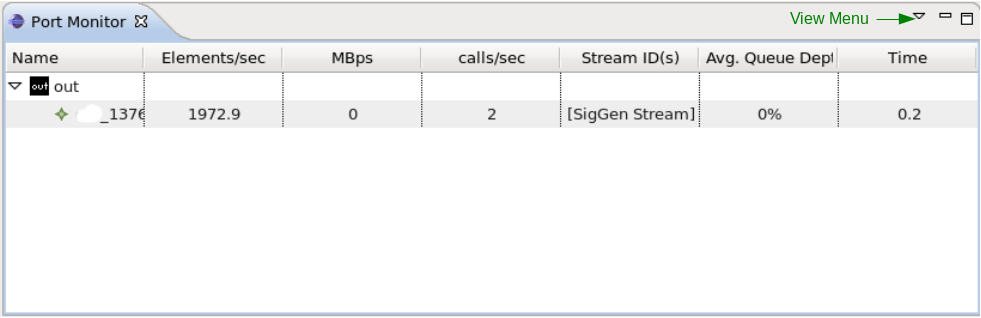
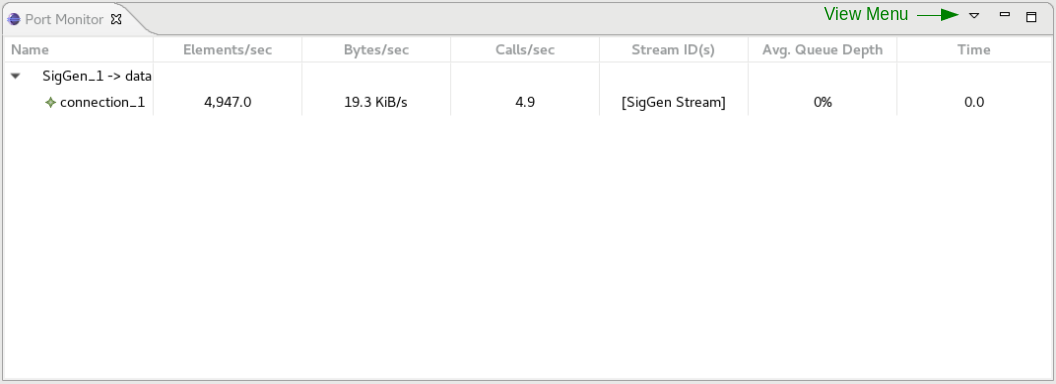
DOCS-820 updated image and column heading and description

diff --git a/content/manual/ide/editors-and-views/port-monitor-view.md b/content/manual/ide/editors-and-views/port-monitor-view.md
@@ -19,9 +19,9 @@ The View displays the following information:
 
   - **Name**: The name of the port or port connection.
   - **Elements/sec**: The rate of CORBA elements transferred in the pushPacket data call.
-  - **mbps**: Mega Bytes transferred per second.
-  - **calls/sec**: Number of push calls per second to the port.
-  - **Stream ids**: List of all active stream ids.
+  - **Bytes/sec**: Bytes transferred per second.
+  - **Calls/sec**: Number of push calls per second to the port.
+  - **Stream ID(s)**: List of all active stream ids.
   - **Avg. Queue Depth**: For components that queue data before processing/sending, the average queue depth measured as a percentage. If a port does not queue data, this value is set to zero.
   - **Time**: The elapsed time, in seconds, since the last packet was transferred via a push packet call.
 
